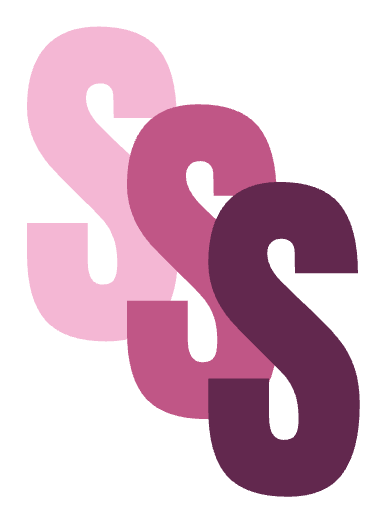
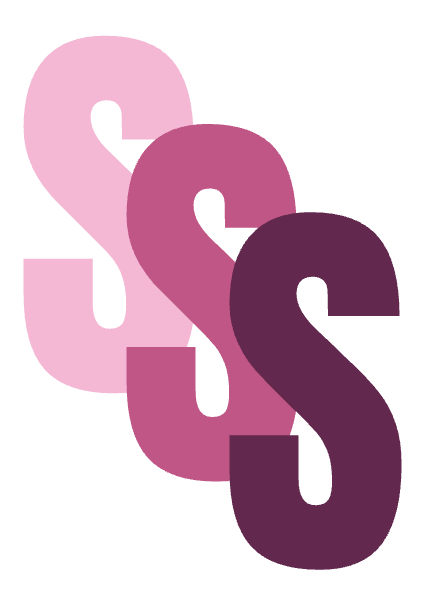
Use the second version of the S mark

diff --git a/_includes/nav.html b/_includes/nav.html
@@ -10,6 +10,6 @@
     <li><a{% if page.url == '/playground/' %} class="active" aria-current="page"{% endif %} href="{{ '/playground/' | relative_url }}">playground</a></li>
   </ul>
   <a href="{{ '/' | relative_url }}" class="nav-mark" aria-label="Home">
-    <img src="{{ '/assets/images/sss-mark.png' | relative_url }}" alt="" width="380" height="516">
+    <img src="{{ '/assets/images/sss-mark.png' | relative_url }}" alt="" width="426" height="608">
   </a>
 </nav>
